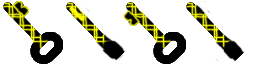
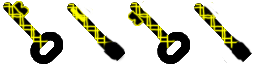
I did it

diff --git a/GameProject0/KeyGame.cs b/GameProject0/KeyGame.cs
@@ -11,12 +11,9 @@ namespace GameProject0
         private SpriteBatch _spriteBatch;
         private Keyhole[] keyholes;
         private InputManager inputManager;
-        private Texture2D key;
         private SpriteFont pixel;
+        private Key key;
         private int clickCount = 0;
-        private short keyAnimationFrame = 0;
-        private double keyAnimationTimer;
-        private BoundingRectangle keyBounds;
 
         public KeyGame()
         {
@@ -37,7 +34,7 @@ namespace GameProject0
                 new Keyhole(this, Color.White) {Position = new Vector2(550, 200), Bounds = new BoundingRectangle(new Vector2(550, 200), 64, 64), Correct = false}
             };
             inputManager = new InputManager();
-            keyBounds = new BoundingRectangle(new Vector2(inputManager.MousePosition.X, inputManager.MousePosition.Y), 59, 64);
+            key = new Key(this);
             
             base.Initialize();
         }
@@ -48,17 +45,23 @@ namespace GameProject0
 
             // TODO: use this.Content to load your game content here
             foreach (Keyhole k in keyholes) k.LoadContent();
-            key = Content.Load<Texture2D>("AnimatedKey");
+            key.LoadContent();
             pixel = Content.Load<SpriteFont>("Pixel");
         }
 
         protected override void Update(GameTime gameTime)
         {
-            inputManager.Update(gameTime, keyholes[2].Position);
+            key.Update(gameTime, keyholes[2], inputManager);
 
             if (inputManager.Exit) Exit();
 
             // TODO: Add your update logic here
+            if (inputManager.Warp && key.Win)
+            {
+                clickCount++;
+                Win();
+            }
+
             if (inputManager.Warp)
             {
                 clickCount++;
@@ -67,13 +70,7 @@ namespace GameProject0
                     k.Warp();
                     k.Bounds = new BoundingRectangle(new Vector2(k.Position.X, k.Position.Y), 64, 64);
                 }                                
-            }
-            
-            if (keyholes[2].Bounds.CollidesWith(keyBounds))
-            {
-                clickCount++;
-                Win();
-            }                
+            }                           
             
             base.Update(gameTime);
 
@@ -89,20 +86,7 @@ namespace GameProject0
             //_spriteBatch.Draw(key, inputManager.MousePosition, Color.White);
             _spriteBatch.DrawString(pixel, "Scatters: " + clickCount, new Vector2(2, 2), Color.Gold);
             _spriteBatch.DrawString(pixel, "Click the correct slot!", new Vector2(150, 100), Color.Gold);
-
-            //Update animation timer
-            keyAnimationTimer += gameTime.ElapsedGameTime.TotalSeconds;
-
-            if (keyAnimationTimer > 0.3)
-            {
-                //Update animation frame
-                keyAnimationFrame++;
-                if (keyAnimationFrame > 3) keyAnimationFrame = 0;
-                keyAnimationTimer -= 0.3;
-            }
-
-            var source = new Rectangle(keyAnimationFrame * 64, 0, 59, 64);
-            _spriteBatch.Draw(key, inputManager.MousePosition, source, Color.White);
+            key.Draw(_spriteBatch);
             _spriteBatch.End();
 
             base.Draw(gameTime);

diff --git a/GameProject0/Key.cs b/GameProject0/Key.cs
@@ -1,0 +1,96 @@
+using System;
+using System.Collections.Generic;
+using System.Text;
+using Microsoft.Xna.Framework;
+using Microsoft.Xna.Framework.Graphics;
+using GameProject0.Collisions;
+
+namespace GameProject0
+{
+    public class Key
+    {
+        private short keyAnimationFrame = 0;
+        private double keyAnimationTimer;        
+        /// <summary>
+        /// The game this ball is a part of
+        /// </summary>
+        Game game;
+
+        /// <summary>
+        /// A color to help distinguish one ball from another
+        /// </summary>
+        public GameTime GameTime { get; set; }
+
+        /// <summary>
+        /// The texture to apply to a ball
+        /// </summary>
+        Texture2D texture;
+
+        /// <summary>
+        /// The position of the ball in the game world
+        /// </summary>
+        public Vector2 Position { get; set; }
+
+        public bool Win { get; set; } = false;
+
+        /// <summary>
+        /// Bounding volume of sprite
+        /// </summary>
+        public BoundingRectangle Bounds { get; set; }
+
+        /// <summary>
+        /// Constructs a new ball instance
+        /// </summary>
+        /// <param name="game">The game this ball belongs in</param>
+        /// <param name="color">A color to distinguish this ball</param>
+        public Key(Game game)
+        {
+            this.game = game;
+        }
+
+        /// <summary>
+        /// Loads the ball's texture
+        /// </summary>
+        public void LoadContent()
+        {
+            texture = game.Content.Load<Texture2D>("AnimatedKey");
+        }
+
+        public void Update(GameTime gameTime, Keyhole hole, InputManager inputManager)
+        {
+            inputManager.Update(gameTime);
+            GameTime = gameTime;
+            Position = inputManager.MousePosition;
+            Bounds = new BoundingRectangle(new Vector2(inputManager.MousePosition.X, inputManager.MousePosition.Y), 50, 50);
+            if (hole.Bounds.CollidesWith(Bounds) && inputManager.Warp)
+            {
+                Win = true;
+            }
+        }
+
+        /// <summary>
+        /// Draws the ball at its current position and with 
+        /// its assigned color
+        /// </summary>
+        /// <param name="spriteBatch">The SpriteBatch to render with</param>
+        public void Draw(SpriteBatch _spriteBatch)
+        {
+            if (texture is null) throw new InvalidOperationException("Texture must be loaded to render");
+            //Update animation timer
+            keyAnimationTimer += GameTime.ElapsedGameTime.TotalSeconds;
+
+            if (keyAnimationTimer > 0.3)
+            {
+                //Update animation frame
+                keyAnimationFrame++;
+                if (keyAnimationFrame > 3) keyAnimationFrame = 0;
+                keyAnimationTimer -= 0.3;
+            }
+
+            var source = new Rectangle(keyAnimationFrame * 64, 0, 64, 64);
+            _spriteBatch.Draw(texture, Position, source, Color.White);
+        }
+
+
+    }
+}

diff --git a/GameProject0/InputManager.cs b/GameProject0/InputManager.cs
@@ -40,7 +40,7 @@ namespace GameProject0
         /// </summary>
         public bool Exit { get; private set; } = false;
 
-        public void Update(GameTime gameTime, Vector2 pos)
+        public void Update(GameTime gameTime)
         {
             #region State Updating
             priorKeyboardState = currentKeyboardState;
@@ -91,7 +91,7 @@ namespace GameProject0
             if (currentMouseState.LeftButton == ButtonState.Pressed && priorMouseState.LeftButton == ButtonState.Released)
             {
                 Warp = true;
-            }
+            }            
 
             #endregion
         }
